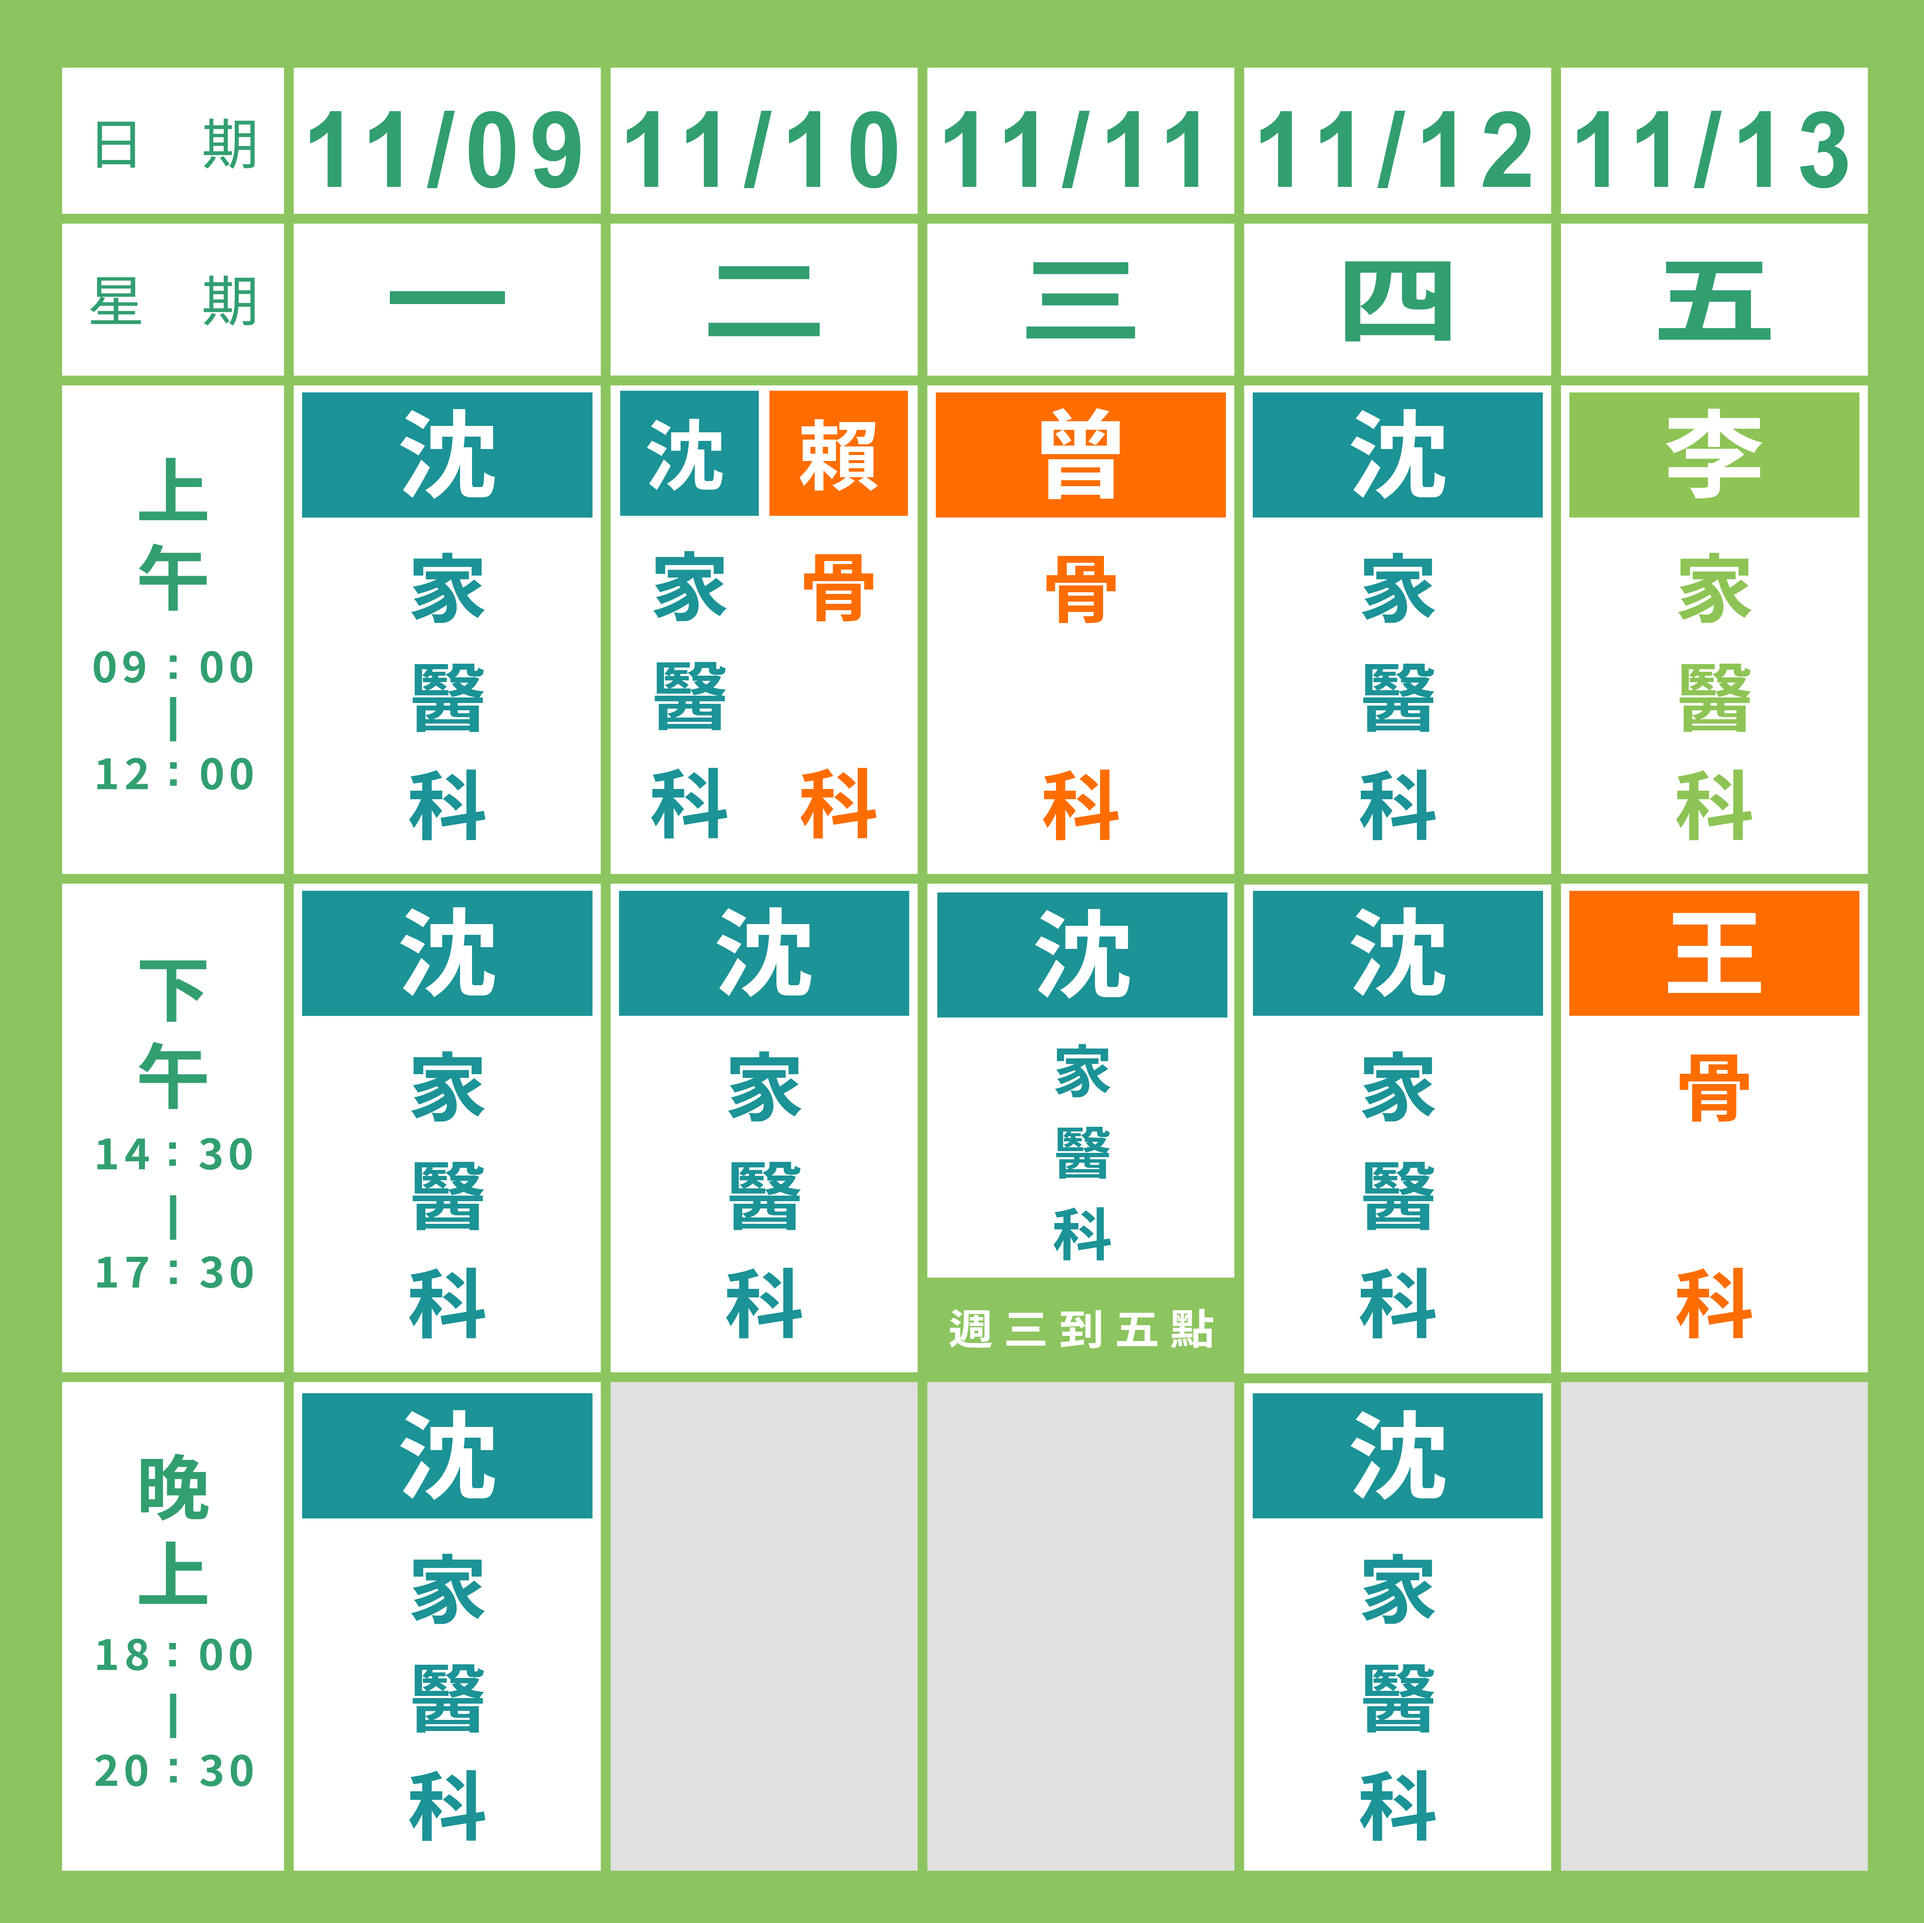
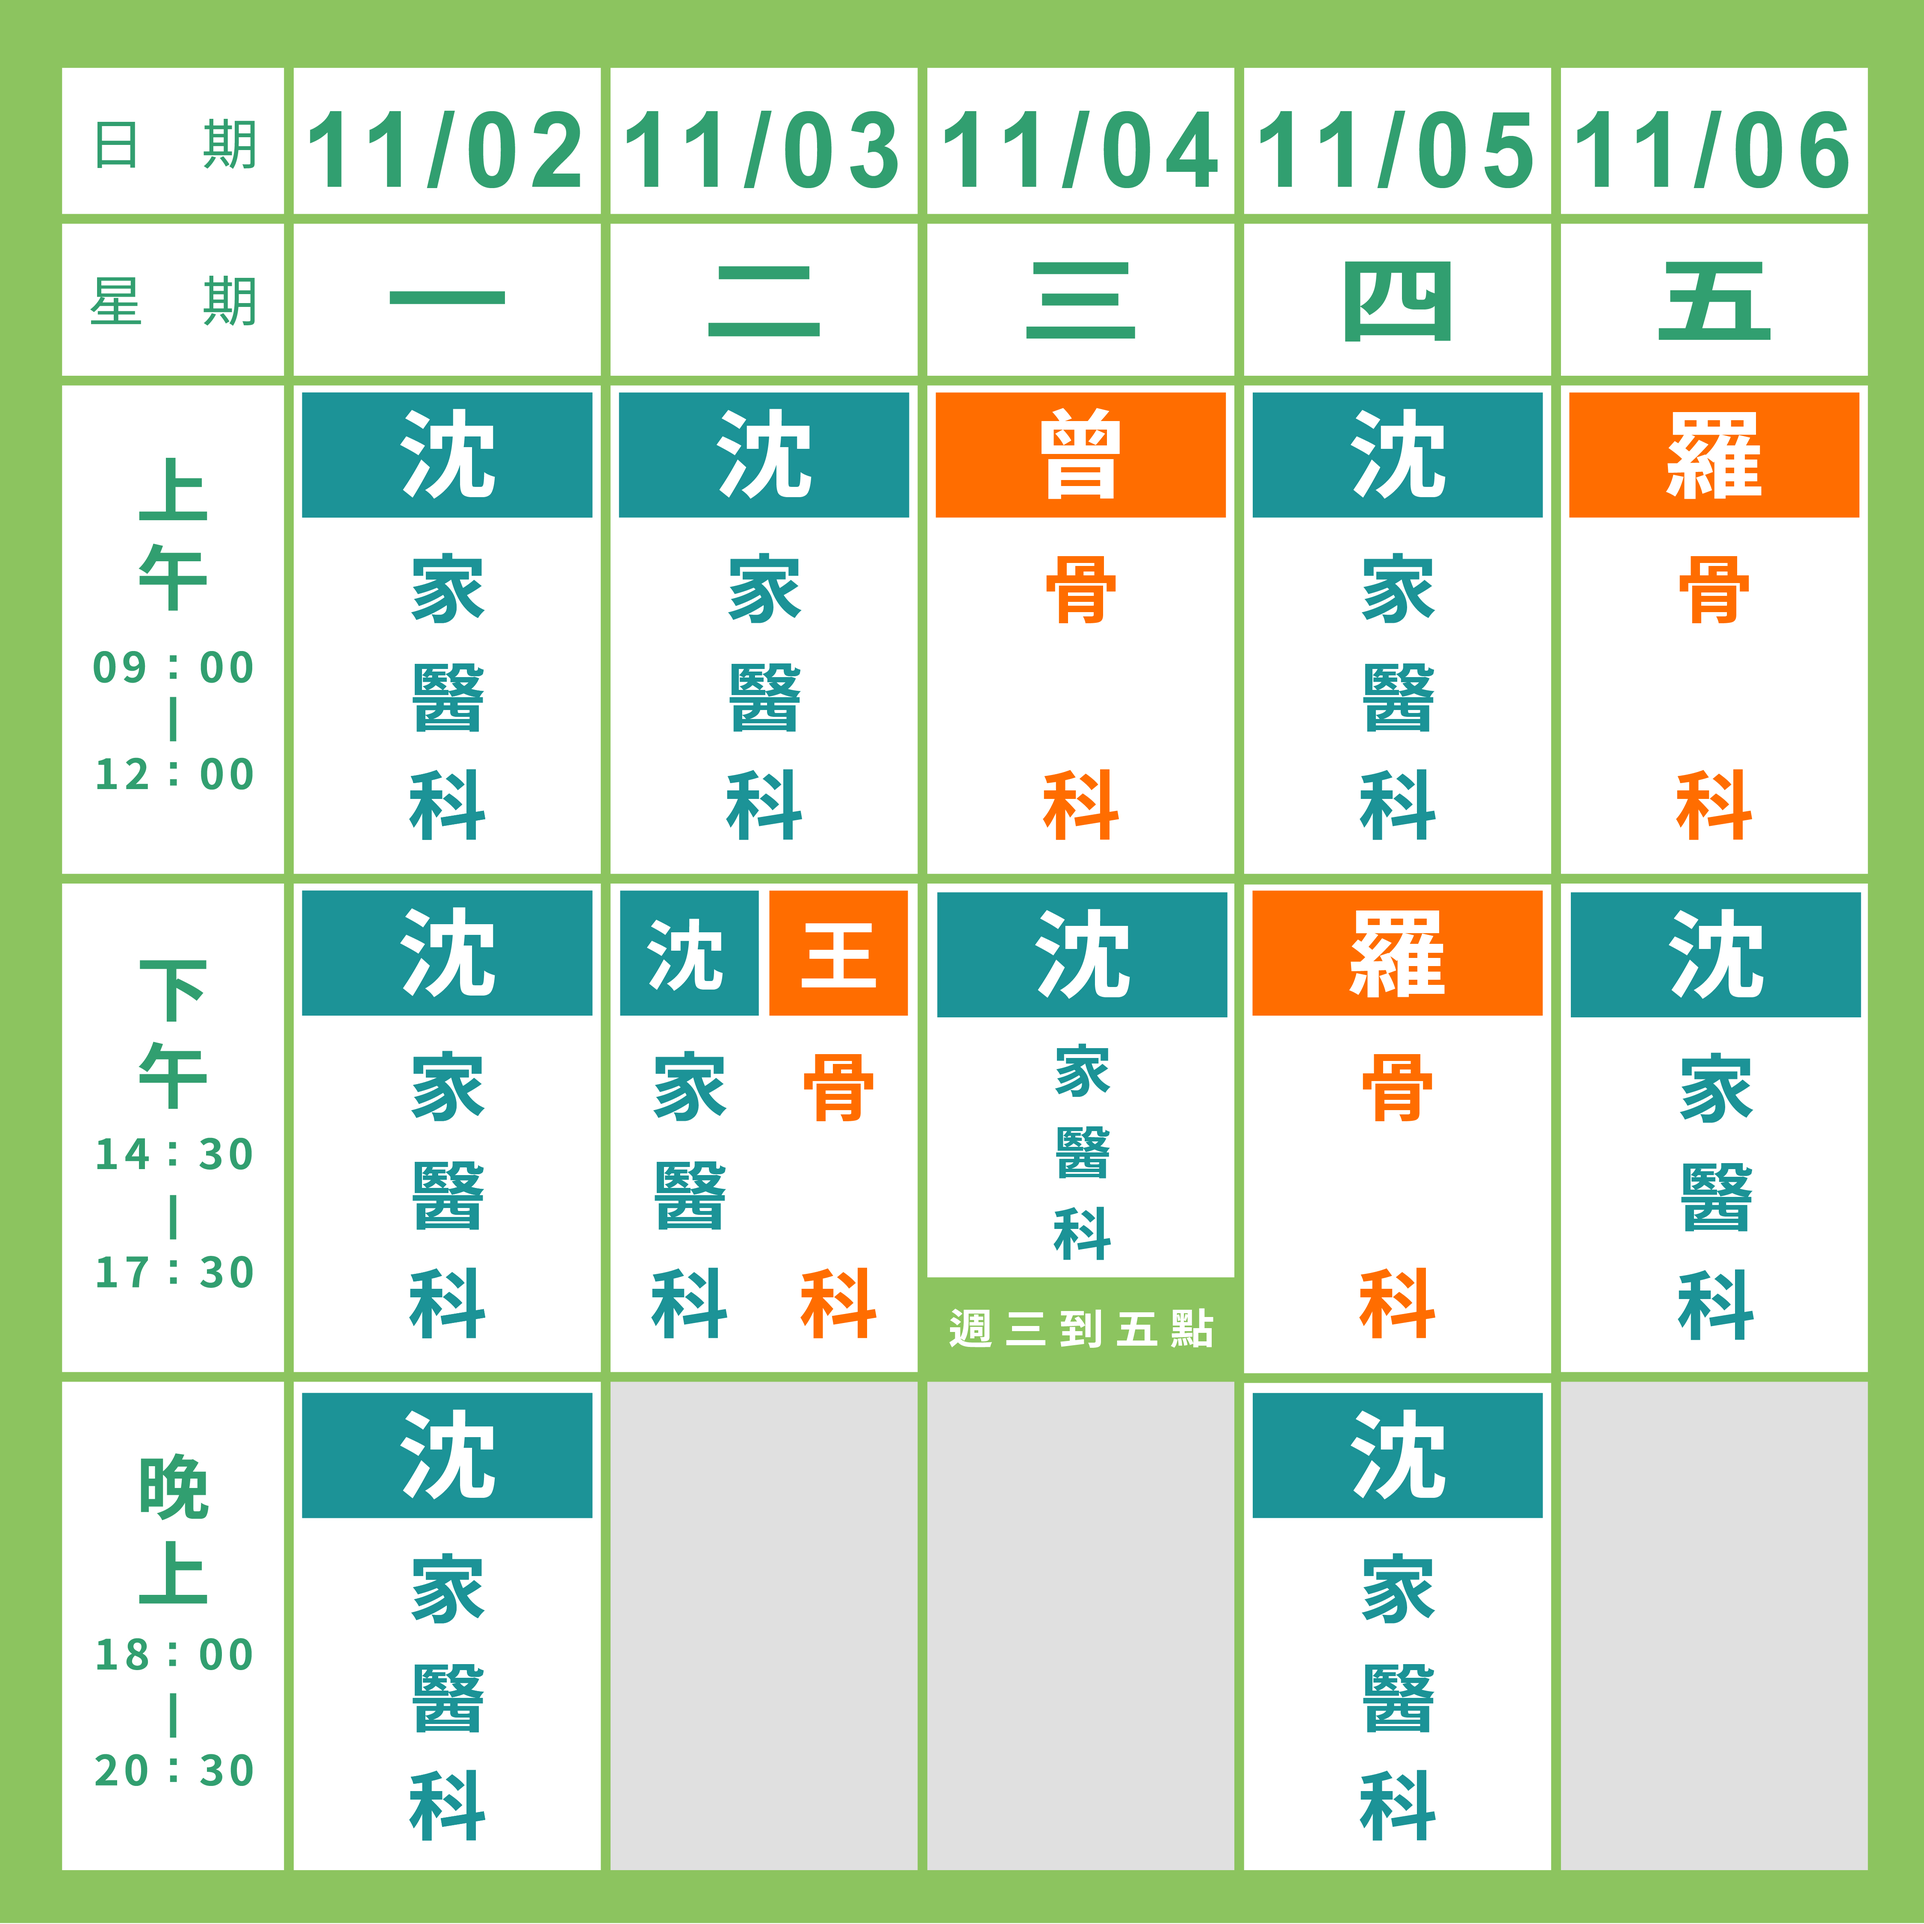
門診時間表BUG

diff --git a/index.html b/index.html
@@ -257,7 +257,7 @@ j=d.createElement(s),dl=l!='dataLayer'?'&l='+l:'';j.async=true;j.src=
               </div>
             </div>
             <p id="scheduleStatus" class="schedule-note p-3 mb-0" role="status">門診表載入中</p>
-            <img id="clinicSchedule" data-schedule-month="2026-10" alt="門診時間表" class="week" width="1080" height="1080" hidden>
+            <img id="clinicSchedule" data-schedule-month="2026-11" alt="門診時間表" class="week" width="1080" height="1080" hidden>
           </div>
           <aside class="visit-info" aria-label="就診資訊">
             <h3>看診時段</h3>
